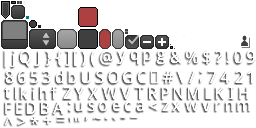
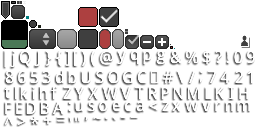
Made a start on my own name from phonebook picker to replace the third party library.

Changed region(s): [[0.0, 0.1562, 0.125, 0.4062], [0.375, 0.0312, 0.4688, 0.2188]]

diff --git a/core/src/net/leejjon/bluffpoker/dialogs/PlayersFromPhonebookDialog.java b/core/src/net/leejjon/bluffpoker/dialogs/PlayersFromPhonebookDialog.java
@@ -1,0 +1,35 @@
+package net.leejjon.bluffpoker.dialogs;
+
+import com.badlogic.gdx.Gdx;
+import com.badlogic.gdx.scenes.scene2d.ui.*;
+import com.badlogic.gdx.scenes.scene2d.utils.Drawable;
+import net.leejjon.bluffpoker.BluffPokerGame;
+
+public class PlayersFromPhonebookDialog extends Dialog {
+    public PlayersFromPhonebookDialog(Skin uiSkin) {
+        super("Select players from phonebook", uiSkin, "dialog");
+
+        Table contentTable = getContentTable();
+        contentTable.center();
+
+//        List.ListStyle ls = uiSkin.get(List.ListStyle.class);
+//        ls.selection = addBordersToTextArea(ls.selection);
+//        ls.fontColorSelected = new Color(1f, 1f, 1f, 1.0f);
+//        List<String> playerList = new List<>(ls);
+//        playerList.setItems("Leon", "Richard");
+//
+        Table checkBoxPerPhonebookEntryTable = new Table();
+        checkBoxPerPhonebookEntryTable.left();
+        CheckBox checkBox = new CheckBox("Leon", uiSkin, "big");
+        checkBoxPerPhonebookEntryTable.add(checkBox);
+        ScrollPane playersScrollPane = new ScrollPane(checkBoxPerPhonebookEntryTable, uiSkin);
+//
+//        // Take 50% of the screen.
+        int width = Gdx.graphics.getWidth() / BluffPokerGame.getDivideScreenByThis();
+        int height = Gdx.graphics.getHeight() / BluffPokerGame.getDivideScreenByThis();
+        contentTable.add(playersScrollPane).width((width * 100) / 155).height((height * 100) / 200).padTop(3f).padRight(1f);
+
+        getButtonTable().add(new TextButton("Add", uiSkin)).padBottom(5f);
+        getButtonTable().add(new TextButton("Cancel", uiSkin)).padBottom(5f);
+    }
+}

diff --git a/core/src/net/leejjon/bluffpoker/stages/SelectPlayersStage.java b/core/src/net/leejjon/bluffpoker/stages/SelectPlayersStage.java
@@ -11,6 +11,7 @@ import net.leejjon.bluffpoker.BluffPokerGame;
 import net.leejjon.bluffpoker.actors.BlackBoard;
 import net.leejjon.bluffpoker.assets.TextureKey;
 import net.leejjon.bluffpoker.dialogs.AddNewPlayerDialog;
+import net.leejjon.bluffpoker.dialogs.PlayersFromPhonebookDialog;
 import net.leejjon.bluffpoker.dialogs.WarningDialog;
 import net.leejjon.bluffpoker.interfaces.ContactsRequesterInterface;
 import net.leejjon.bluffpoker.interfaces.StageInterface;
@@ -34,6 +35,7 @@ public class SelectPlayersStage extends AbstractStage implements ModifyPlayerLis
         playerNameInvalid = new WarningDialog("Player name empty or too long!", uiSkin);
         minimalTwoPlayersRequired = new WarningDialog("Select at least two players!", uiSkin);
         final AddNewPlayerDialog addNewPlayerDialog = new AddNewPlayerDialog(this);
+        final PlayersFromPhonebookDialog playersFromPhonebookDialog = new PlayersFromPhonebookDialog(uiSkin);
 
         players = new ArrayList<>();
 
@@ -110,7 +112,8 @@ public class SelectPlayersStage extends AbstractStage implements ModifyPlayerLis
         phonebook.addListener(new ClickListener() {
             @Override
             public void clicked(InputEvent event, float x, float y) {
-                contactsRequester.initiateSelectContacts(SelectPlayersStage.this);
+//                contactsRequester.initiateSelectContacts(SelectPlayersStage.this);
+                playersFromPhonebookDialog.show(SelectPlayersStage.this);
             }
         });
         TextButton startGame = new TextButton("Start game", uiSkin);

diff --git a/core/src/net/leejjon/bluffpoker/dialogs/WinnerDialog.java b/core/src/net/leejjon/bluffpoker/dialogs/WinnerDialog.java
@@ -7,9 +7,6 @@ import com.badlogic.gdx.scenes.scene2d.utils.ClickListener;
 import net.leejjon.bluffpoker.interfaces.StageInterface;
 import net.leejjon.bluffpoker.interfaces.UserInterface;
 
-/**
- * Created by Leejjon on 4-12-2015.
- */
 public class WinnerDialog extends Dialog {
     public WinnerDialog(final StageInterface stageListener, final UserInterface userInterface, Skin skin) {
         super("We have a winner!", skin);
